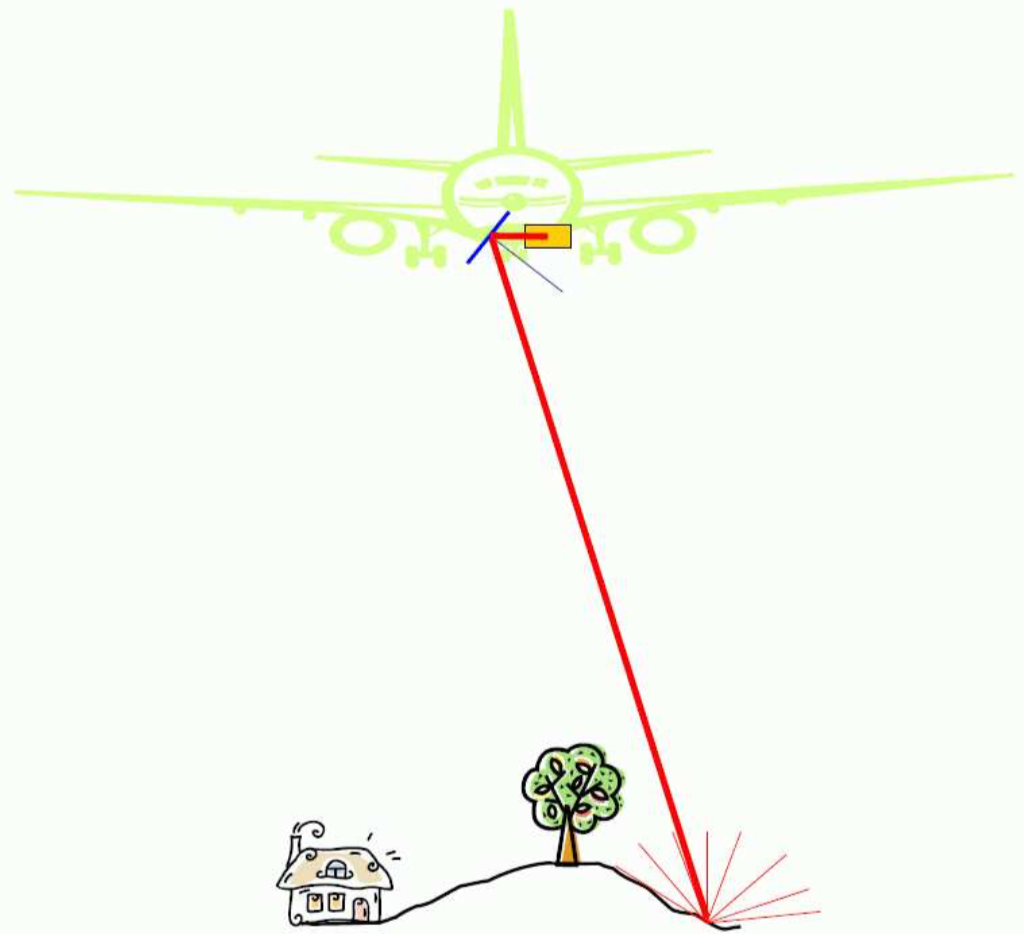
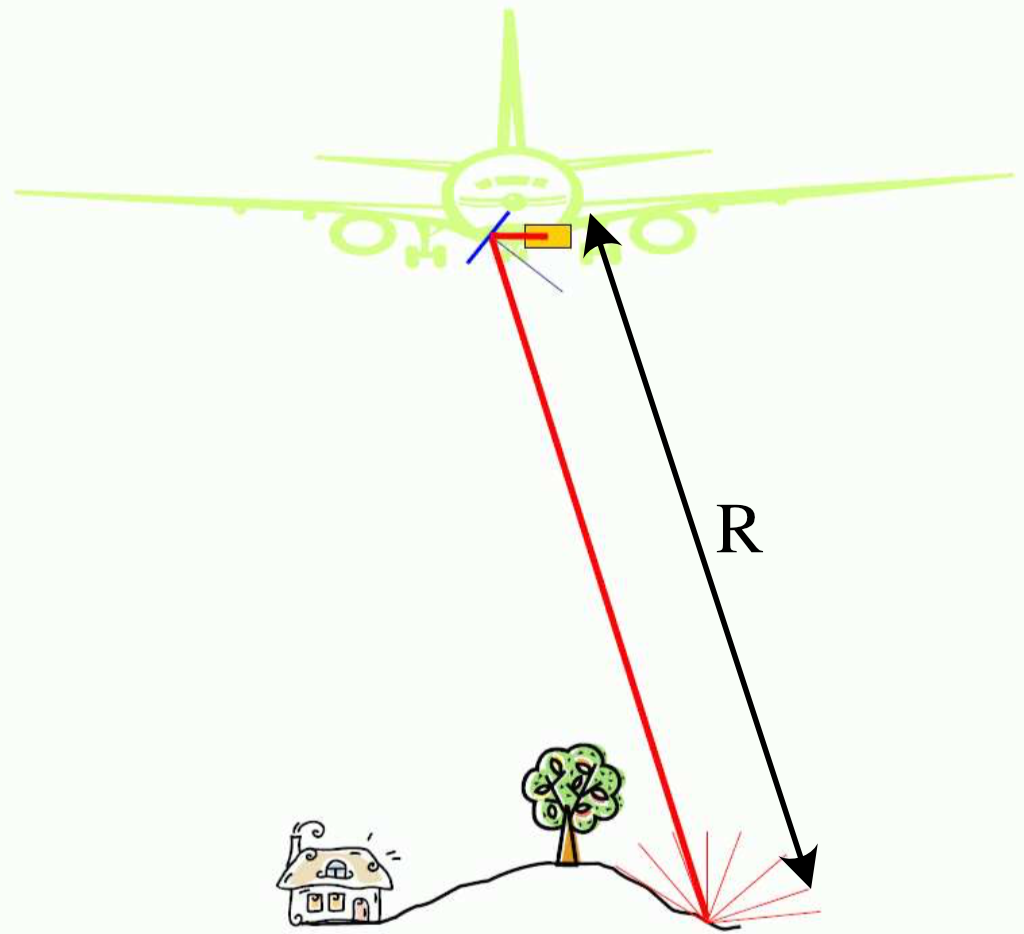
small improvements acquisition chapter

diff --git a/acquisition/acquisition.tex b/acquisition/acquisition.tex
@@ -31,9 +31,15 @@ This is because, as with any kind of real-world measurements, there are various 
 \label{sec:lidar-principles}
 
 A lidar system\footnote{While `lidar' is often treated as the acronym of \textbf{li}ght \textbf{d}etection \textbf{a}nd \textbf{r}anging, it actually originated as a portmanteau of `light' and `radar'. Source \url{https://en.wikipedia.org/wiki/Lidar\#History\_and\_etymology}} measures the distance to a target by illuminating it with pulsed laser light and measuring the reflected or \emph{backscattered}\footnote{Backscattering is the natural phenomenon of  the reflection of (electromagnetic) waves or signals back to the direction they came from.} signal with a sensor (see Figure~\ref{fig:acqLidar}). 
-By measuring the time-of-flight, 
 \marginnote{time-of-flight}\index{time-of-flight}
-\ie\ the difference in time between emitting a pulse and detecting its return or \emph{echo}, the distance to the target that reflected the pulse can be found using a simple formula. To be exact, the time-of-flight $T$ is equal to
+\index{acqLidar}
+\begin{marginfigure}
+	\centering
+	\includegraphics[width=\textwidth]{figs/lidar.png}
+	\caption{Lidar range measurment}%
+	\label{fig:acqLidar}
+\end{marginfigure}
+By measuring the time-of-flight, \ie\ the difference in time between emitting a pulse and detecting its return or \emph{echo}, the distance to the target that reflected the pulse can be found using a simple formula. To be exact, the time-of-flight $T$ is equal to
 \begin{equation}
 	\label{eq:tof}
 	T= 2 \frac{R}{c}
@@ -45,7 +51,7 @@ where $c$ is the speed of  light (approximately 300,000 km/s), and $R$ is the di
 A typical lidar systems performs hundreds of thousands of such range measurements per second. 
 
 Lidar scanners exist in various forms. 
-They can be mounted on a static tripod (terrestrial lidar) for accurate local scans, or on a moving platform such as a car (mobile lidar) or an aircraft (airborne lidar) for rapid scanning of larger areas. Nowadays, also hand-held lidar systems exist, and even some of the latest smartphones  have a lidar sensor. Furthermore, lidar can also be used from a satellite in space\footnote{NASA has used space lidar on earth (\url{https://en.wikipedia.org/wiki/ICESat-2}), on the Moon (\url{https://lola.gsfc.nasa.gov}), and on Mars (\url{https://en.wikipedia.org/wiki/Mars_Orbiter_Laser_Altimeter}).}. 
+They can be mounted on a static tripod (terrestrial lidar) for detailed local scans, or on a moving platform such as a car (mobile lidar) or an aircraft (airborne lidar) for rapid scanning of larger areas. Nowadays, also hand-held lidar systems exist, and even some of the latest smartphones  have a lidar sensor. Furthermore, lidar can also be used from a satellite in space\footnote{NASA has used space lidar on earth (\url{https://en.wikipedia.org/wiki/ICESat-2}), on the Moon (\url{https://lola.gsfc.nasa.gov}), and on Mars (\url{https://en.wikipedia.org/wiki/Mars_Orbiter_Laser_Altimeter}).}. 
 
 However, in the remainder of this text we will focus on airborne lidar.
 
@@ -56,7 +62,7 @@ However, in the remainder of this text we will focus on airborne lidar.
 
 \begin{figure}
 	\centering
-	\includegraphics[width=0.65\textwidth]{figs/lidar-gnss-imu.png}
+	\includegraphics[width=0.7\textwidth]{figs/lidar-gnss-imu.png}
 	\caption{An airborne lidar system. Figure from \citet{Dowman04}.}%
 \label{fig:airborne-lidar}
 \end{figure}
@@ -68,7 +74,7 @@ To  obtain an accurate global position, \emph{differential GPS} (DGPS) is employ
 \marginnote{differential GPS}\index{differential GPS}
 DGPS is a technique to enhance the accuracy of GPS  by using GPS stations on the ground (one is visible in Figure~\ref{fig:airborne-lidar}). 
 These DGPS stations have a known position and they broadcast the difference between that  known position and the position at the station as indicated by GPS\@. 
-This difference is essentially a correction for errors in the GPS signal. The aircraft receives these differences from a nearby DGPS station and uses them to correct the GPS position of the aircraft. Using DGPS the accuracy of the GPS position on the aircraft can be improved from around 15 meters to several centimetres.
+This difference is essentially a correction for errors in the GPS signal. The aircraft receives these differences from nearby DGPS stations and uses them to correct the GPS position of the aircraft. Using DGPS the accuracy of the GPS position on the aircraft can be improved from around 15 meters to several centimetres.
 
 To obtain the accurate orientation of the laser scanner, the INS of the aircraft is used. 
 The INS accurately measures the orientation, \ie\ the yaw, pitch  and roll angles of the aircraft, by means of an inertial measurement unit (IMU)\footnote{\url{https://en.wikipedia.org/wiki/Inertial_measurement_unit}}. 
@@ -88,16 +94,16 @@ Notice that lidar pulses are typically emitted in a slightly divergent manner. A
 
 \begin{figure}
 	\centering
-	\includegraphics[width=0.7\textwidth]{figs/lidar-multipulse.pdf}
+	\includegraphics[width=0.8\textwidth]{figs/lidar-multipulse.pdf}
 	\caption{The emitted laser pulse, \textbf{(a)} the returned signal, and \textbf{(b)} the recorded echoes. Figure adapted from \citet{Bailly12}.}%
 \label{fig:lidar-multipulse}
 \end{figure}
 Figure~\ref{fig:lidar-multipulse} illustrates what the backscattered signal looks like when it hits a target object in the shape of a tree. 
 A tree is particularly interesting because it often causes multiple echoes (one or more on its branches and one on the ground below).  The lidar sensor observes a waveform that represents the received signal power ($P$) as a function of time ($t$). 
-Wit the direct detection lidar systems that we focus on in this book, the echoes are derived from the backscattered waveform by using a thresholding technique. This essentially means that an echo is recorded whenever the power of the waveform exceeds a fixed threshold (see Figure~\ref{fig:lidar-multipulse}b). 
+With the direct detection lidar systems that we focus on in this book, the echoes are derived from the backscattered waveform by using a thresholding technique. This essentially means that an echo is recorded whenever the power of the waveform exceeds a fixed threshold (see Figure~\ref{fig:lidar-multipulse}b). 
 
-Multiple echoes are also referred to as multiple returns. 
-\marginnote{multiple returns}\index{multiple returns}
+An echo can  also  be referred to as a \emph{return}. 
+\marginnote{return}\index{return}
 For each return the return count is recorded, \eg\ the first return is the first echo received from an emitted laser pules and the last return is the last received echo (see Figure~\ref{fig:lidar-multipulse}). The return count can in some cases be used to determine if an echo was reflected on vegetation or ground (ground should then be the last return).
 
 
@@ -118,10 +124,10 @@ In the optical part, a pulse of a particular wavelength (typically near-infrared
 It then passes through a set of  optics (lenses and mirrors) so that it leaves the scanner in an appropriate direction. 
 After the pulse interacts with the scattering medium, it is reflected back into the scanning optics which then directs the signal into a telescope. 
 The telescope converges the signal through a field diaphragm (essentially a tiny hole around the point of convergence). 
-The field diaphragm blocks any stray light rays (\eg\ sunlight reflected into the optics from any angle) from proceeding in the optical pipeline. 
+The field diaphragm blocks stray light rays (\eg\ sunlight reflected into the optics from any angle) from proceeding in the optical pipeline. 
 Next, the light signal is recollimated so that it again consists only of parallel light rays. 
 The final step of the optical part is the inference filter which blocks all wavelengths except for the wavelength of the laser source. 
-This is again needed to block any stray light rays from distorting the measurement.
+This is again needed to block stray light rays from distorting the measurement.
 
 The electronic part consists of a photodetector, which first transforms the light signal into an electrical current, which is then converted to a digital signal using the analogue-to-digital converter. 
 Once the digital signal is available, further electronics can be used to interpret and record the signal.
@@ -138,7 +144,7 @@ One needs to consider atmospheric scattering,
 As a result, most lidar systems use a wavelength in the near-infrared spectrum, usually between 600 and 1000 nm. A notable exception is made for bathymetric purposes, in which case a green (532 nm) laser is used because that has a greater penetration ability in water.
 
 \subsection{Scanning patterns}
-In order to improve the capacity to quickly scan large areas, a number of rotating optical elements are typically present in a lidar system. Using these rotating mirrors or prisms the emitted laser pulse is guided in a cross-track direction (\ie\ perpendicular to the along-track direction in which  the aircraft moves),  thereby greatly increasing the scanned ground area  per travelled meter of the aircraft.
+In order to improve the capacity to quickly scan large areas, a number of rotating optical elements are typically present in a lidar system. Using these optical elements, \ie\  mirrors or prisms, the emitted laser pulse is guided in a cross-track direction (\ie\ perpendicular to the along-track direction in which  the aircraft moves, see Figure~\ref{fig:acqLidar}),  thereby greatly increasing the scanned ground area  per travelled meter of the aircraft.
 Figure~\ref{fig:lidar-patterns} depicts a number of possible configurations of rotating optics and shows the resulting scanning patterns. It is clear that density of points on the ground is affected by the scanning pattern. The top example for example, yields much higher densities on edges of the scanned area. In practice more uniform patterns, such  as the bottom two examples are often preferred.
 
 \begin{figure}
@@ -165,23 +171,15 @@ Figure~\ref{fig:lidar-patterns} depicts a number of possible configurations of r
 
 Apart from lidar there are also other sensor techniques that can be used to acquire elevation data. Some of these are  active sensors just like lidar (a signal is generated and emitted from the sensor), whereas others are passive (using the sun as light source). And like lidar, these sensors themselves only do range measurements, and need additional hardware such as a GPS receiver and an IMU to georeference the measurements. What follows is a brief description of the three other important acquisition techniques used in practice. 
 
-\begin{figure}
-	\centering
-	\begin{subfigure}{0.4\linewidth}
-		\includegraphics[width=\textwidth]{figs/lidar.png}
-		\subcaption{Lidar}\label{fig:acqLidar}
-	\end{subfigure}
-	\quad
-	\begin{subfigure}{0.4\linewidth}
-		\includegraphics[width=\textwidth]{figs/photogrammetry.png}
-		\subcaption{Photogrammetry}\label{fig:acqPhoto}
-	\end{subfigure}
-	\caption{Two sensors techniques for DTM acquisition}%
-\label{fig:sensors}
-\end{figure}
 % FIXME image with flight parameters and strips
 
 \subsection{Photogrammetry}
+\begin{marginfigure}
+	\centering
+	\includegraphics[width=\textwidth]{figs/photogrammetry.png}
+	\caption{Photogrammetry}%
+	\label{fig:acqPhoto}
+\end{marginfigure}
 Photogrammetry allows us to measure the distance from overlapping photographs taken from different positions. 
 If a ground point, called a \emph{feature}, is identifiable in two or more images, its 3D coordinates can be computed in two steps. 
 First, a viewing ray for that feature must be reconstructed for each image. 
@@ -190,11 +188,11 @@ Second, considering that we know the orientation and position of the camera, the
 
 % interior orientation (camera parameters such as focal length) and the exterior orientation (camera position and orientation)
 
-The number of 3D point measurements resulting from photogrammetry thus depends on the number of features that are visible in multiple images, \ie\ the so-called \emph{matches}.
+The number of 3D point measurements resulting from photogrammetry thus depends on the number of features that are visible in multiple images, \ie\ the so-called matches.
 With \emph{dense image matching} 
 \marginnote{dense image matching}\index{dense image matching}
 it is attempted to find a match for every pixel in an image. 
-If the \emph{ground sampling distance}, \ie\ the pixel size on ground level, is small (around 5cm for state-of-the-art systems), point densities of hundreds of points per square meter can be achieved, which is much higher than the typical lidar point cloud (typically up to dozens of points per square meter). 
+If the ground sampling distance, \ie\ the pixel size on ground level, is small (around 5cm for state-of-the-art systems), point densities of hundreds of points per square meter can be achieved, which is much higher than the typical lidar point cloud (typically up to dozens of points per square meter). 
 
 In photogrammetry we distinguish between \emph{nadir} images, 
 \marginnote{nadir images}\index{nadir images}
@@ -322,25 +320,17 @@ Photogrammetry knows a similar process called aerial triangulation, in which cam
 Many commonly occurring  artefacts  happen due to properties of the target surface. We distinguish three classes.
 
 \subsubsection{Geometry} 
-The shape of the target surfaces in relation to the sensor position has a great effect on 1) local point densities and 2) occlusion. 
-As you can see from Figure~\ref{fig:lidarAcquisitionConditions:a}, which illustrates this for lidar, surfaces that are closest to the scanner and orthogonal to the laser beams will yield the highest point densities (see the rooftop of the middle house). 
-\begin{figure}
+The shape of the target surfaces in relation to the sensor position has a great effect on 1) local point densities and 2) occlusion. As you can see from Figure~\ref{fig:lidarAcquisitionConditions:a},
+\begin{marginfigure}
 	\centering
-	\begin{subfigure}{0.4\linewidth}
-		\includegraphics[width=\textwidth,page=2]{figs/lidarAcq.pdf}
-		\subcaption{Point distribution and occlusion}\label{fig:lidarAcquisitionConditions:a}
-	\end{subfigure}
-	\quad
-	\begin{subfigure}{0.3\linewidth}
-		\includegraphics[width=\textwidth,page=1]{figs/lidarAcq.pdf}
-		\subcaption{Reflection and multi-path}\label{fig:lidarAcquisitionConditions:b}
-	\end{subfigure}
-	\caption{Sources of artefacts in lidar point clouds}%
-\label{fig:lidarAcquisitionConditions}
-\end{figure}
-Very steep surfaces on the other hand, yield relatively low point densities (see the façades of the buildings). 
+	\includegraphics[width=\textwidth,page=2]{figs/lidarAcq.pdf}
+	\caption{Point distribution and occlusion}%
+	\label{fig:lidarAcquisitionConditions:a}
+\end{marginfigure}
+which illustrates this for lidar, surfaces that are closest to the scanner and orthogonal to the laser beams will yield the highest point densities (see the rooftop of the middle house). Very steep surfaces on the other hand, yield relatively low point densities (see the façades of the buildings). 
 
-Occlusion happens when a surface is not visible from the scanner position. 
+\index{occlusion}
+\emph{Occlusion} happens when a surface is not visible from the scanner position. 
 As a result there will be gaps in the point coverage, also visible in Figure~\ref{fig:lidarAcquisitionConditions:a}. 
 Notice how some steep surfaces and some of the adjacent ground are not registered at all by the scanner because it simply could not `see' these parts.
 
@@ -378,6 +368,12 @@ However, regardless of what flight parameters are chosen for a survey both effec
 \subsubsection{Material properties}
 Depending on material properties of a target surface, signals may be reflected in a way that makes it impossible to compute the correct distance. 
 Surfaces that act like a mirror are especially problematic, Figure~\ref{fig:lidarAcquisitionConditions:b} illustrates this. 
+\begin{marginfigure}
+	\centering
+	\includegraphics[width=\textwidth,page=1]{figs/lidarAcq.pdf}
+	\caption{Reflection and multi-path}%
+	\label{fig:lidarAcquisitionConditions:b}
+\end{marginfigure}
 First, it may happen that a pulse is reflected away from the sensor, \eg\ from a water surface, resulting in no distance measurement for that pulse. 
 Or, in the case of photogrammetry, we will observe a different reflection in each image which heavily distorts the matching process, sometimes resulting in extreme outliers for water surfaces.  
 In some cases, and only for active sensors, the reflected pulse does make its way back to the sensor, see for example the right half of Figure~\ref{fig:lidarAcquisitionConditions:b}. 
